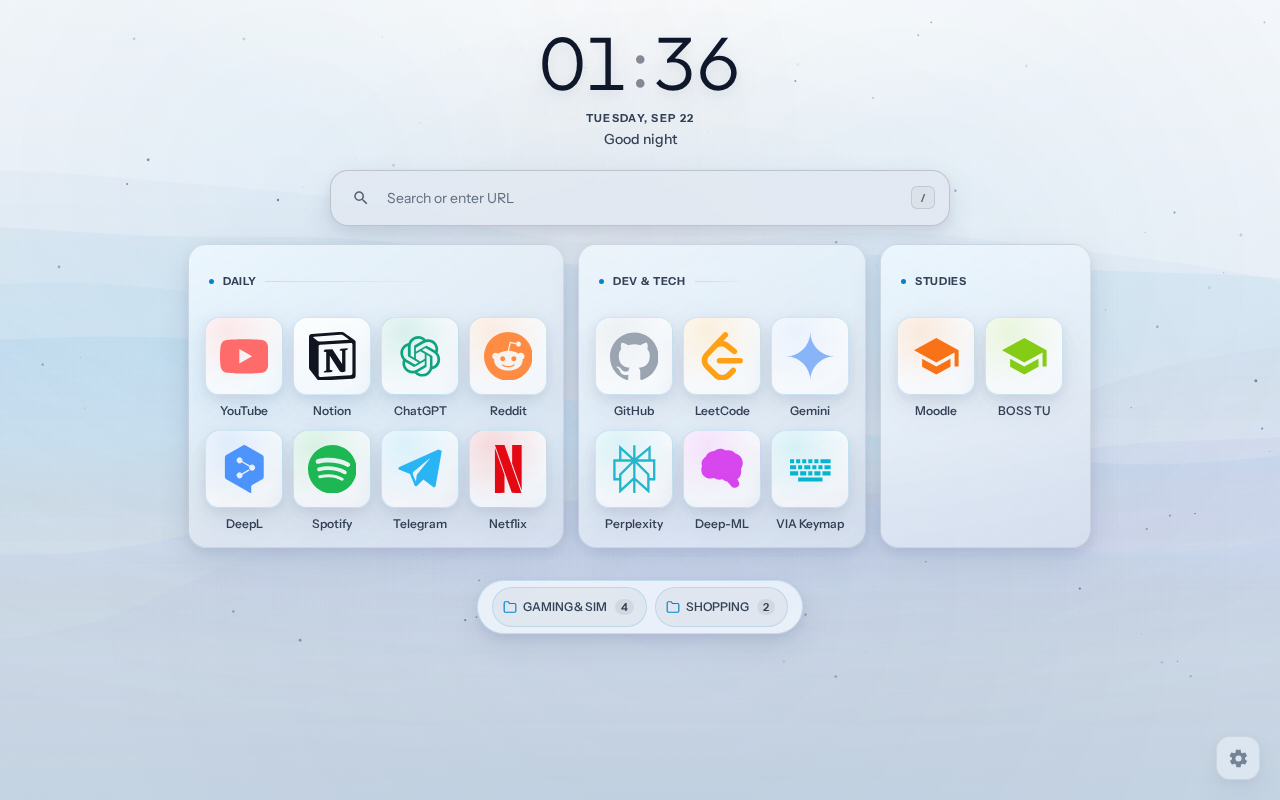
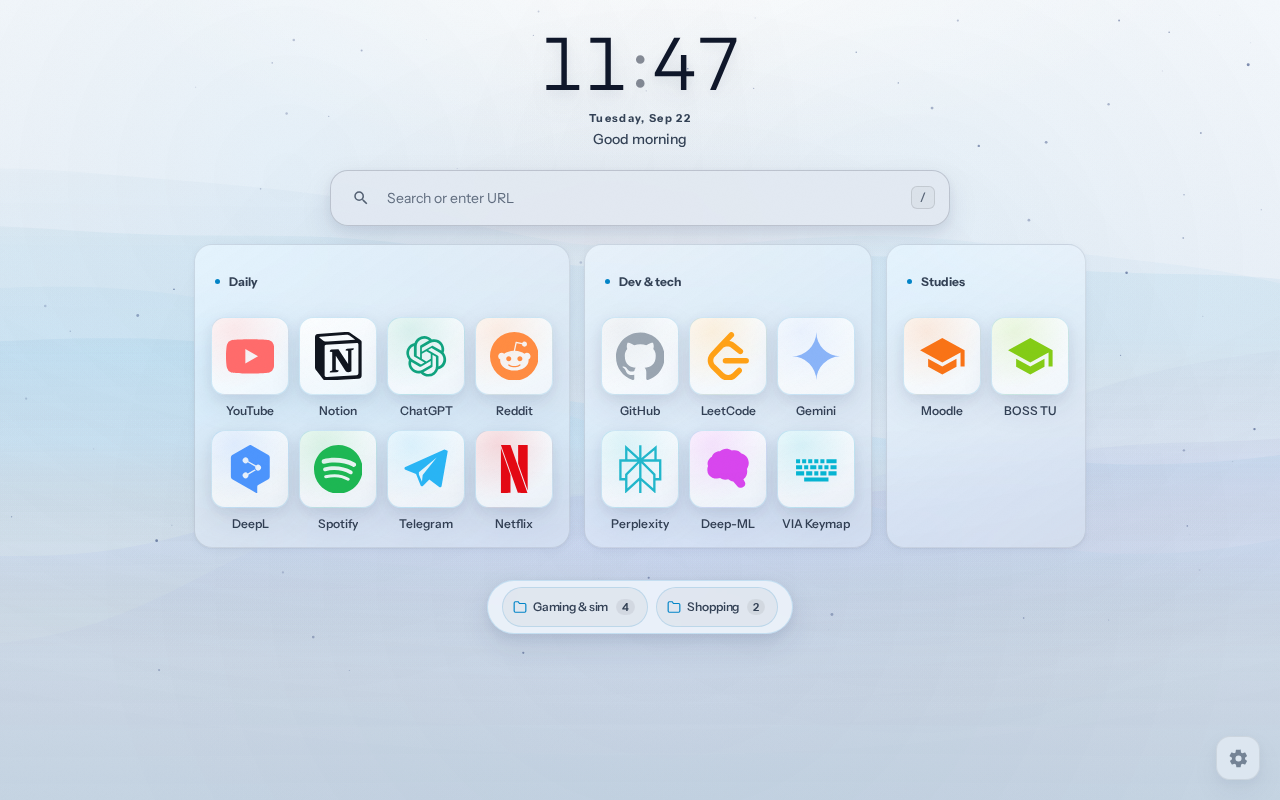
feat: make the canvas quieter and more product-specific

diff --git a/src/css/polish.css b/src/css/polish.css
@@ -11,7 +11,6 @@
   --nl-polish-hairline: color-mix(in srgb, var(--nl-text-primary) 10%, transparent);
   --nl-polish-hairline-hover: color-mix(in srgb, var(--nl-text-primary) 18%, transparent);
   --nl-polish-accent-soft: color-mix(in srgb, var(--nl-accent) 13%, transparent);
-  --nl-polish-shadow: var(--nl-shadow-2);
 }
 
 /* Canvas composition */
@@ -46,6 +45,7 @@
   font-size: var(--nl-text-2xs);
   font-weight: 650;
   letter-spacing: var(--nl-track-wide);
+  text-transform: none;
   color: color-mix(in srgb, var(--nl-text-secondary) 88%, transparent);
 }
 
@@ -141,17 +141,17 @@ body.searching #search {
   border-color: var(--nl-polish-hairline);
   background: linear-gradient(
     145deg,
-    color-mix(in srgb, var(--nl-surface-card) 64%, transparent),
-    color-mix(in srgb, var(--nl-surface-card-deep) 76%, transparent)
+    color-mix(in srgb, var(--nl-surface-card) 52%, transparent),
+    color-mix(in srgb, var(--nl-surface-card-deep) 64%, transparent)
   );
-  box-shadow: var(--nl-polish-shadow);
+  box-shadow: var(--nl-shadow-1);
   backdrop-filter: blur(var(--glass-blur)) saturate(var(--glass-saturate, 122%));
   -webkit-backdrop-filter: blur(var(--glass-blur)) saturate(var(--glass-saturate, 122%));
 }
 
 .card:hover {
   border-color: var(--nl-polish-hairline-hover);
-  box-shadow: var(--nl-shadow-2);
+  box-shadow: var(--nl-shadow-1);
 }
 
 .cat {
@@ -167,13 +167,14 @@ body.searching #search {
 }
 
 .cat b {
-  font-size: var(--nl-text-2xs);
-  letter-spacing: var(--nl-track-label);
+  font-size: var(--nl-text-xs);
+  letter-spacing: var(--nl-track-none);
   color: var(--nl-text-secondary);
+  text-transform: none;
 }
 
 .cat i {
-  opacity: .52;
+  display: none;
 }
 
 .grid {
@@ -287,8 +288,9 @@ body.hover-glow .tile:hover .box {
 .settings-nav-label {
   padding: 0 12px 6px;
   font-size: var(--nl-text-2xs);
-  letter-spacing: var(--nl-track-label);
+  letter-spacing: var(--nl-track-none);
   color: var(--nl-text-secondary);
+  text-transform: none;
 }
 
 .ctab {
@@ -330,7 +332,14 @@ body.hover-glow .tile:hover .box {
 }
 
 .csec h3::after {
-  background: var(--nl-polish-hairline);
+  display: none;
+}
+
+.settings-group-label,
+.ctx-header,
+.nl-select-group {
+  letter-spacing: var(--nl-track-none);
+  text-transform: none;
 }
 
 .color-mode-segmented {

diff --git a/src/js/app.js b/src/js/app.js
@@ -24,7 +24,7 @@ const DEFAULT_CONFIG = {
   customCss: "",
   groups: [
     {
-      label: "DAILY",
+      label: "Daily",
       cols: 4,
       hidden: false,
       links: [
@@ -39,7 +39,7 @@ const DEFAULT_CONFIG = {
       ]
     },
     {
-      label: "DEV & TECH",
+      label: "Dev & tech",
       cols: 3,
       hidden: false,
       links: [
@@ -52,7 +52,7 @@ const DEFAULT_CONFIG = {
       ]
     },
     {
-      label: "STUDIES",
+      label: "Studies",
       cols: 2,
       hidden: false,
       links: [
@@ -61,7 +61,7 @@ const DEFAULT_CONFIG = {
       ]
     },
     {
-      label: "GAMING & SIM",
+      label: "Gaming & sim",
       cols: 2,
       hidden: false,
       links: [
@@ -72,7 +72,7 @@ const DEFAULT_CONFIG = {
       ]
     },
     {
-      label: "SHOPPING",
+      label: "Shopping",
       cols: 2,
       hidden: false,
       links: [

diff --git a/src/js/widgets.js b/src/js/widgets.js
@@ -89,7 +89,7 @@ class ClockWidget {
       const opts = { weekday: "long", month: "short", day: "numeric" };
       const currentLang = window.I18N ? window.I18N.currentLang : "en";
       const locale = LOCALE_MAP[currentLang] || currentLang || "en-US";
-      this.elDate.textContent = now.toLocaleDateString(locale, opts).toUpperCase();
+    this.elDate.textContent = now.toLocaleDateString(locale, opts);
     }
 
     // Time-based greeting
